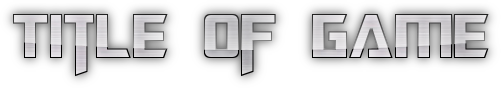
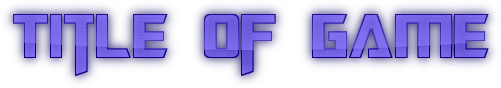
Inputing name and difficulty now takes the user to the game screen. Changed color of one of the main menu images because it has become boring to look at.

diff --git a/CPS111BrickBreaker/inputdialog.cpp b/CPS111BrickBreaker/inputdialog.cpp
@@ -5,6 +5,7 @@
 #include "inputdialog.h"
 #include "ui_inputdialog.h"
 #include "gameworld.h"
+#include "gamewindow.h"
 
 InputDialog::InputDialog(QWidget *parent) :
     QWidget(parent),
@@ -30,11 +31,11 @@ void InputDialog::on_btnOk_clicked()
 
     delete this;
 
-
     GameWorld::accessWorld().setPlayerName(name);
     GameWorld::accessWorld().setDifficulty(difficulty);
 
-    qDebug() << name << " " << difficulty;
+    GameWindow* gamewindow = new GameWindow();
+    gamewindow->show();
 
 }
 

diff --git a/CPS111BrickBreaker/mainwindow.cpp b/CPS111BrickBreaker/mainwindow.cpp
@@ -23,6 +23,4 @@ void MainWindow::on_btnPlay_clicked()
 {
     InputDialog *input = new InputDialog();
     input->show();
-
-    //delete input;
 }
